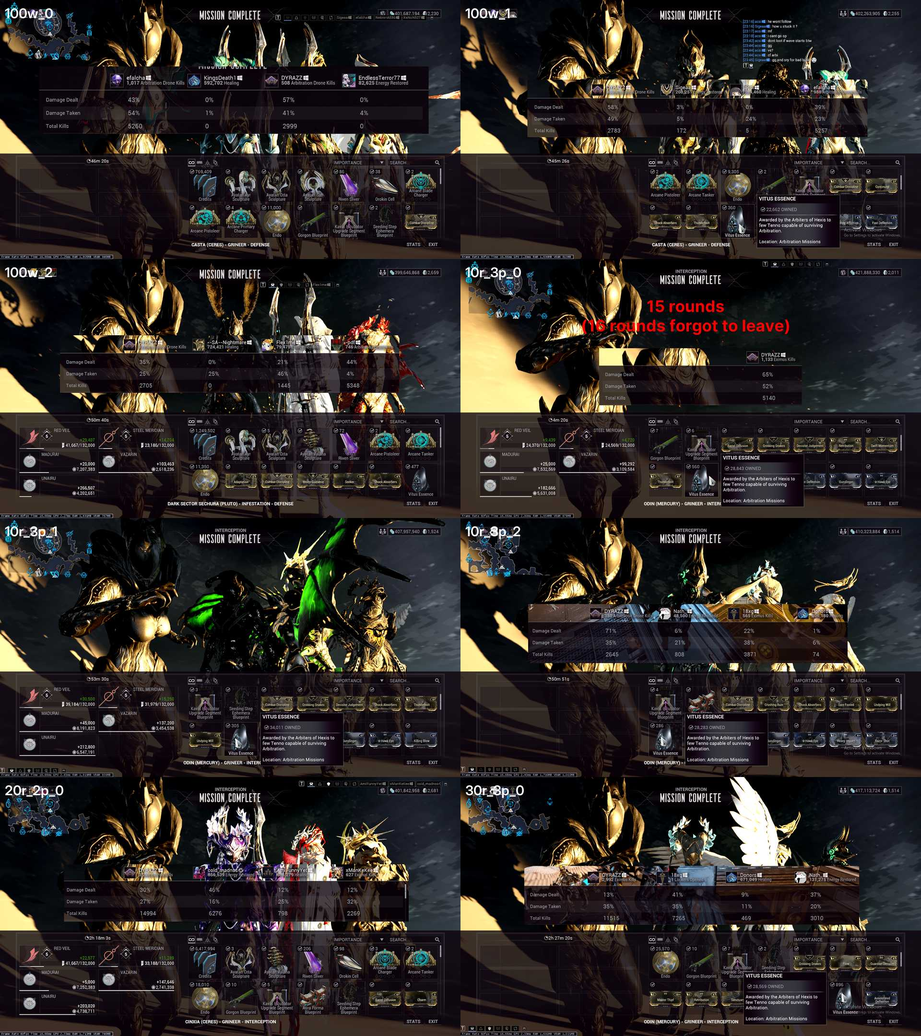
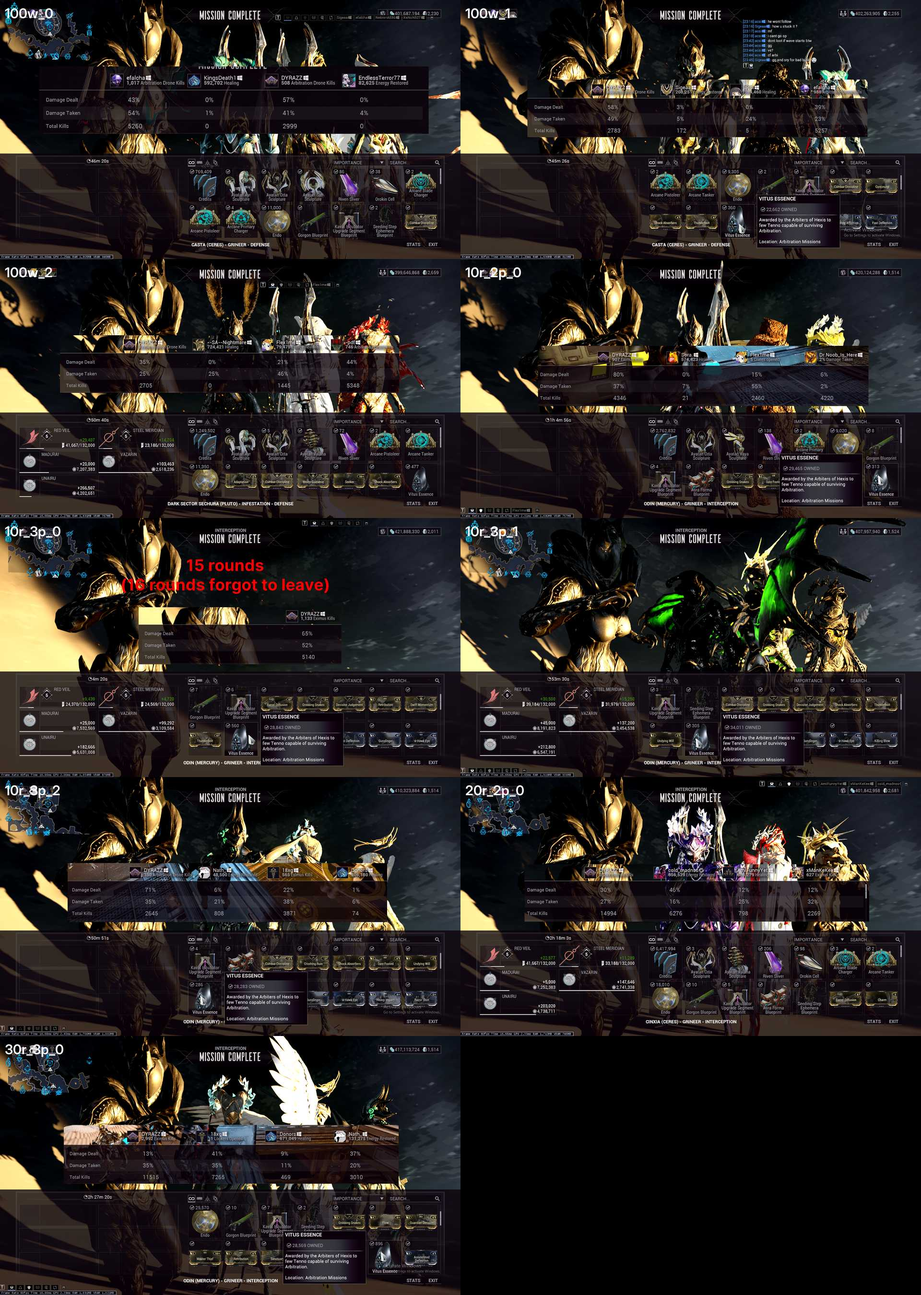
Update

diff --git a/README.md b/README.md
@@ -1,10 +1,10 @@
-|       |   saryn |   mirage |   chroma |   wisp |   volt |   octavia |   total |
-|:------|--------:|---------:|---------:|-------:|-------:|----------:|--------:|
-| 100w  |       3 |        4 |        7 |      8 |      0 |         0 |      22 |
-| 200w  |       0 |        0 |        0 |      0 |      0 |         0 |       0 |
-| 10r   |       3 |        0 |        1 |      0 |      0 |         0 |       4 |
-| 20r   |       1 |        0 |        0 |      0 |      0 |         0 |       1 |
-| 30r   |       1 |        2 |        0 |      0 |      1 |         0 |       4 |
-| total |      11 |       10 |        8 |      8 |      3 |         0 |      40 |
+|       |   saryn |   wisp |   mirage |   chroma |   volt |   octavia |   total |
+|:------|--------:|-------:|---------:|---------:|-------:|----------:|--------:|
+| 100w  |       3 |      8 |        4 |        7 |      0 |         0 |      22 |
+| 200w  |       0 |      0 |        0 |        0 |      0 |         0 |       0 |
+| 10r   |       4 |      0 |        0 |        1 |      0 |         0 |       5 |
+| 20r   |       1 |      0 |        0 |        0 |      0 |         0 |       1 |
+| 30r   |       1 |      1 |        2 |        0 |      1 |         0 |       5 |
+| total |      12 |     11 |       10 |        8 |      3 |         0 |      44 |
 
-Updated 2024-08-04 15:52 UTC+0
+Updated 2024-08-04 22:45 UTC+0
